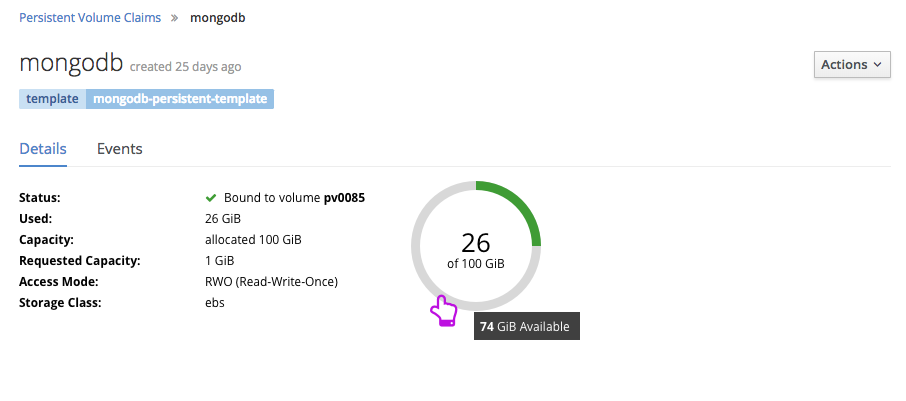
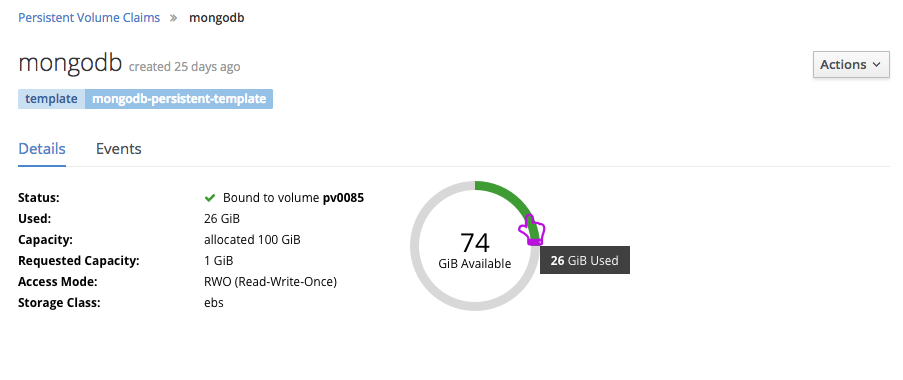
Updated donut chart. Resolved some open questions

diff --git a/web-console/project-details/storage-metrics.md b/web-console/project-details/storage-metrics.md
@@ -1,11 +1,9 @@
 # Storage usage Metrics
 
 ## Open Questions
-- What should the entry for capacity consumed be called? I'm using "Used" in these mocks, but should it be "Capacity Consumed"? Something else?
 - What would we want the thresholds for the donut chart to be? Are the defaults ok?
 - Will these storage metrics be tied to any events or warnings so that we can proactively inform users of any storage problems?
-- Is `NA` how we want to show that the metric doesn't exist? Should we add a tooltip to that as well?
-- Is the order of the fields ok for the PVC details page?
+- Is `NA` indeed how we want to show that the metric doesn't exist? Should we add a tooltip to that as well?
 
 ## Storage List Page
 
@@ -19,18 +17,20 @@
 
 ## Storage Details Page
 ![storage details](img/storage-details.png)
-- When the capacity consumed metric is available for a PVC, a utilization donut chart is added to the details page to show the capacity consumed.
+- When the capacity consumed metric is available for a PVC, a utilization donut chart is added to the details page to show the capacity consumed, with a label indicating the available storage capacity.
 - A **Used** entry should appear in the details list and the units should match the units for **Capacity**.
 - If the PVC has a storage class, that should be shown on the details page regardless whether metrics are available or not.
+- *FUTURE* May be useful to have time-based view of storage consumption so that users will be able to predict when they might need to take action on their storage.
 
 
 #### Storage Donut Chart
 - Use [PatternFly Donut Chart](http://www.patternfly.org/pattern-library/data-visualization/donut-chart/#design).
+- The colored portion of the chart should show the amount of storage **used**.
 - The chart should be color coded according to thresholds. The default thresholds are:
   - Green (`#3f9c35`) if < 75%
   - Gold (`#ec7a08`) between 75-89%
   - Red (`#cc0000`) >= 90%
-- The label in the center of the donut should give the capacity used in the fomat "x of y GiB", with the x value in large type.
+- The label in the center of the donut should give the capacity **available** in the format "x GiB Available", with the x value in large type.
 - Hovering on either the used or unused sections of the chart should give the amount used or available (as the case may be) in a tooltip.
 
 ### Mobile
@@ -53,9 +53,8 @@
 - `NA` should appear in that column if the metric is not available.
 - If none of the claims listed support the metric, that column should not appear.
 
-## *Future* Warnings and Notifications
+## *FUTURE* Warnings and Notifications
 - We should be able to proactively warn users when they are nearing their storage capacity.
 - We should indicate those situations on the Storage list page as well as on details pages.
 - At the deployment level, we should warn users if storage claims their applications are consuming are nearing or at their storage capacity. Warnings should be visible on the Overview, deployments list and deployment details pages.
 - Warnings about storage usage should appear inline rather than in the notification drawer so that they are not missed.  
-- May be useful to have time-based metrics so that users will be able to predict when they might need to take action on their storage.
